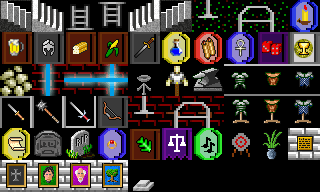
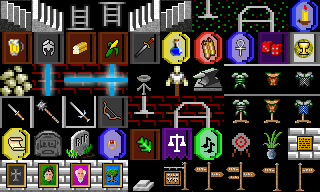
added street signs

Changed region(s): [[0.5, 0.8438, 0.875, 1.0], [0.9375, 0.875, 1.0, 0.9062], [0.9062, 0.9688, 0.9688, 1.0]]

diff --git a/tileFactory.js b/tileFactory.js
@@ -738,6 +738,31 @@ tileFactory.prototype.makePedestalTile = function() {
   return newTile;
 }
 
+tileFactory.prototype.makeWoodSignTile = function() {
+  var newTile = new WoodSignTile();
+  return newTile;
+}
+
+tileFactory.prototype.makeWoodSign1Tile = function() {
+  var newTile = new WoodSign1Tile();
+  return newTile;
+}
+
+tileFactory.prototype.makeWoodSign2Tile = function() {
+  var newTile = new WoodSign2Tile();
+  return newTile;
+}
+
+tileFactory.prototype.makeWoodSign3Tile = function() {
+  var newTile = new WoodSign3Tile();
+  return newTile;
+}
+
+tileFactory.prototype.makeWoodSign4Tile = function() {
+  var newTile = new WoodSign4Tile();
+  return newTile;
+}
+
 tileFactory.prototype.makeCoralTile = function() {
   var newTile = new CoralTile();
   return newTile;
